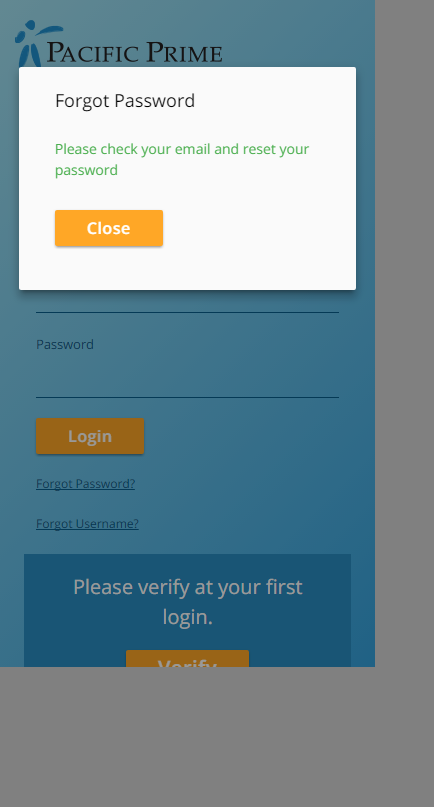
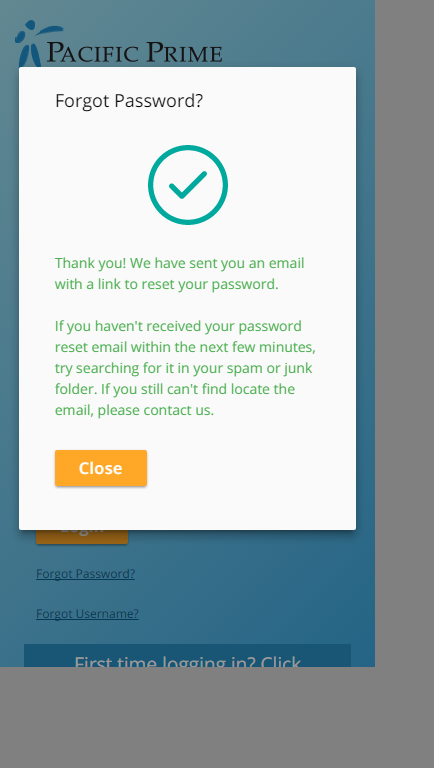
fix selenium Test

diff --git a/browser_test/HomePagePcTest.php b/browser_test/HomePagePcTest.php
@@ -25,67 +25,66 @@ class HomePagePcTest extends \BaseTestCase
         $this->webDriver->findElement(WebDriverBy::id('user_name'))->sendKeys('alex1');
         $this->webDriver->findElement(WebDriverBy::id('password'))->sendKeys('123Psadfs');
 
-        $this->webDriver->findElement(WebDriverBy::xpath('html/body/div[1]/div[1]/div[3]/div/div/div[2]/div/form/div[4]/button'))->click();
+        $this->webDriver->findElement(WebDriverBy::cssSelector("button[data-jshook='loginBtn formBtn']"))->click();
 
         $this->waitJquery();
-        $this->assertContains('Login Fail', $this->webDriver->getPageSource());
+        $this->assertContains('User Not Found', $this->webDriver->getPageSource());
     }
 
     public function testForgotPassword()
     {
         $this->webDriver->get($this->url);
-        $this->webDriver->findElement(WebDriverBy::xpath('html/body/div[1]/div[1]/div[3]/div/div/div[2]/div/div[1]/a'))
+        $this->webDriver->findElement(WebDriverBy::linkText('Forgot Password?'))
                 ->click();
         $this->webDriver->takeScreenshot(__Dir__.'/screen/'.$this->type.'/home-forgotPassword.jpg');
 
-        $box = $this->webDriver->findElement(WebDriverBy::xpath(".//*[@id='forgotpassword_username']"))
-                ->isDisplayed();
+        $box = $this->webDriver->findElement(WebDriverBy::id('forgotPassword'));
 
-        $this->assertTrue($box);
+        $this->assertTrue($box->isDisplayed());
 
-        $field = $this->webDriver->findElement(WebDriverBy::xpath(".//*[@id='forgotpassword_username']"));
-        $btn = $this->webDriver->findElement(WebDriverBy::xpath(".//*[@id='forgotPassword']/div/div/form/div[4]/button"));
+        $field = $this->webDriver->findElement(WebDriverBy::id('forgotpassword_username'));
+        $btn = $this->webDriver->findElement(WebDriverBy::cssSelector("button[data-jshook='forgotpasswordBtn formBtn']"));
 
         $btn->click();
         $this->waitJquery();
-        $msg = $this->webDriver->findElement(WebDriverBy::xpath(".//*[@id='forgotPassword']/div/div/form/div[2]"));
+        $msg = $this->webDriver->findElement(WebDriverBy::cssSelector('div[data-jshook="ForgotPasswordMsg"]'));
 
         $this->assertTrue($msg->isDisplayed());
-        $this->assertContains('Missing field(s)', $msg->getText());
 
         $field->sendKeys('alla');
         $btn->click();
         $this->waitJquery();
-        $this->assertContains('User Not Found', $msg->getText());
+        $this->assertTrue($msg->isDisplayed());
 
         $field->clear()->sendKeys('alex');
         $btn->click();
         $this->waitJquery();
         $this->assertFalse($msg->isDisplayed());
 
-        $successBox = $this->webDriver->findElement(WebDriverBy::xpath(".//*[@id='forgotPassword']/div/div/div[2]"));
+        $successBox = $this->webDriver->findElement(WebDriverBy::cssSelector('div[data-jshook="forgotPasswordSuccess"]'));
         $this->assertTrue($successBox->isDisplayed());
         $this->webDriver->takeScreenshot(__Dir__.'/screen/'.$this->type.'/home-forgotPassword-success.jpg');
 
-        $closeBtn = $this->webDriver->findElement(WebDriverBy::xpath(".//*[@id='forgotPassword']/div/div/div[2]/button"));
+        $closeBtn = $this->webDriver->findElement(WebDriverBy::cssSelector('button[data-jshook="forgotpasswordBtnClose"]'));
         $closeBtn->click();
 
         $this->assertFalse($successBox->isDisplayed());
         $this->assertFalse($closeBtn->isDisplayed());
+        $this->assertFalse($box->isDisplayed());
     }
 
     public function testForgotUserName()
     {
         $this->webDriver->get($this->url);
 
-        $box = $this->webDriver->findElement(WebDriverBy::xpath(".//*[@id='forogtUsername']"));
-        $name = $this->webDriver->findElement(WebDriverBy::xpath(".//*[@id='name']"));
-        $email = $this->webDriver->findElement(WebDriverBy::xpath(".//*[@id='email']"));
-        $phone = $this->webDriver->findElement(WebDriverBy::xpath(".//*[@id='phone']"));
-        $btn = $this->webDriver->findElement(WebDriverBy::xpath(".//*[@id='forogtUsername']/div/div/form/div[6]/button"));
-        $failMsg = $this->webDriver->findElement(WebDriverBy::xpath(".//*[@id='forogtUsername']/div/div/form/div[2]"));
+        $box = $this->webDriver->findElement(WebDriverBy::id('forogtUsername'));
+        $name = $this->webDriver->findElement(WebDriverBy::id('name'));
+        $email = $this->webDriver->findElement(WebDriverBy::id('email'));
+        $phone = $this->webDriver->findElement(WebDriverBy::id('phone'));
+        $btn = $this->webDriver->findElement(WebDriverBy::cssSelector('button[data-jshook="forgotUsernameBtn formBtn"]'));
+        $failMsg = $this->webDriver->findElement(WebDriverBy::cssSelector('div[data-jshook="ForgotUsernameMsg"]'));
 
-        $this->webDriver->findElement(WebDriverBy::xpath('html/body/div[1]/div[1]/div[3]/div/div/div[2]/div/div[2]/a'))
+        $this->webDriver->findElement(WebDriverBy::linkText('Forgot Username?'))
                 ->click();
         $this->webDriver->takeScreenshot(__Dir__.'/screen/'.$this->type.'/home-forgotUsername.jpg');
 
@@ -95,14 +94,13 @@ class HomePagePcTest extends \BaseTestCase
         $btn->click();
         $this->waitJquery();
         $this->assertTrue($failMsg->isDisplayed());
-        $this->assertContains('field validate fail', $failMsg->getText());
+
 
         $name->sendKeys('alex');
         $email->sendKeys('adfsa@dslfkdsfj.com');
         $phone->sendKeys('dsfds');
         $btn->click();
         $this->waitJquery();
-        $this->assertContains('User Not Found', $failMsg->getText());
 
         $name->clear()->sendKeys('alex');
         $email->clear()->sendKeys('alex@kwiksure.com');
@@ -111,11 +109,11 @@ class HomePagePcTest extends \BaseTestCase
         $this->waitJquery();
         $this->assertFalse($failMsg->isDisplayed());
 
-        $success = $this->webDriver->findElement(WebDriverBy::xpath(".//*[@id='forogtUsername']/div/div/div[2]"));
+        $success = $this->webDriver->findElement(WebDriverBy::cssSelector('div[data-jshook="forgotUsernameSuccess"]'));
         $this->webDriver->takeScreenshot(__Dir__.'/screen/'.$this->type.'/home-forgotUsername-success.jpg');
 
         $this->assertTrue($success->isDisplayed());
-        $closeBtn = $this->webDriver->findElement(WebDriverBy::xpath(".//*[@id='forogtUsername']/div/div/div[2]/button"));
+        $closeBtn = $this->webDriver->findElement(WebDriverBy::cssSelector('button[data-jshook="forgotUsernameBtnClose"]'));
         $closeBtn->click();
         $this->assertFalse($box->isDisplayed());
     }

diff --git a/browser_test/HomePageMobileTest.php b/browser_test/HomePageMobileTest.php
@@ -28,64 +28,63 @@ class HomePageMobileTest extends \BaseTestCase
         $this->webDriver->findElement(WebDriverBy::xpath('html/body/div[1]/div[1]/div[3]/div/div/div[2]/div/form/div[4]/button'))->click();
 
         $this->waitJquery();
-        $this->assertContains('Login Fail', $this->webDriver->getPageSource());
+        $this->assertContains('User Not Found', $this->webDriver->getPageSource());
     }
 
     public function testForgotPassword()
     {
         $this->webDriver->get($this->url);
-        $this->webDriver->findElement(WebDriverBy::xpath('html/body/div[1]/div[1]/div[3]/div/div/div[2]/div/div[1]/a'))
+        $this->webDriver->findElement(WebDriverBy::linkText('Forgot Password?'))
                 ->click();
         $this->webDriver->takeScreenshot(__Dir__.'/screen/'.$this->type.'/home-forgotPassword.jpg');
 
-        $box = $this->webDriver->findElement(WebDriverBy::xpath(".//*[@id='forgotpassword_username']"))
-                ->isDisplayed();
+        $box = $this->webDriver->findElement(WebDriverBy::id('forgotPassword'));
 
-        $this->assertTrue($box);
+        $this->assertTrue($box->isDisplayed());
 
-        $field = $this->webDriver->findElement(WebDriverBy::xpath(".//*[@id='forgotpassword_username']"));
-        $btn = $this->webDriver->findElement(WebDriverBy::xpath(".//*[@id='forgotPassword']/div/div/form/div[4]/button"));
+        $field = $this->webDriver->findElement(WebDriverBy::id('forgotpassword_username'));
+        $btn = $this->webDriver->findElement(WebDriverBy::cssSelector("button[data-jshook='forgotpasswordBtn formBtn']"));
 
         $btn->click();
         $this->waitJquery();
-        $msg = $this->webDriver->findElement(WebDriverBy::xpath(".//*[@id='forgotPassword']/div/div/form/div[2]"));
+        $msg = $this->webDriver->findElement(WebDriverBy::cssSelector('div[data-jshook="ForgotPasswordMsg"]'));
 
         $this->assertTrue($msg->isDisplayed());
-        $this->assertContains('Missing field(s)', $msg->getText());
 
         $field->sendKeys('alla');
         $btn->click();
         $this->waitJquery();
-        $this->assertContains('User Not Found', $msg->getText());
+        $this->assertTrue($msg->isDisplayed());
 
         $field->clear()->sendKeys('alex');
         $btn->click();
         $this->waitJquery();
         $this->assertFalse($msg->isDisplayed());
 
-        $successBox = $this->webDriver->findElement(WebDriverBy::xpath(".//*[@id='forgotPassword']/div/div/div[2]"));
+        $successBox = $this->webDriver->findElement(WebDriverBy::cssSelector('div[data-jshook="forgotPasswordSuccess"]'));
         $this->assertTrue($successBox->isDisplayed());
         $this->webDriver->takeScreenshot(__Dir__.'/screen/'.$this->type.'/home-forgotPassword-success.jpg');
 
-        $closeBtn = $this->webDriver->findElement(WebDriverBy::xpath(".//*[@id='forgotPassword']/div/div/div[2]/button"));
+        $closeBtn = $this->webDriver->findElement(WebDriverBy::cssSelector('button[data-jshook="forgotpasswordBtnClose"]'));
         $closeBtn->click();
 
         $this->assertFalse($successBox->isDisplayed());
         $this->assertFalse($closeBtn->isDisplayed());
+        $this->assertFalse($box->isDisplayed());
     }
 
     public function testForgotUserName()
     {
         $this->webDriver->get($this->url);
 
-        $box = $this->webDriver->findElement(WebDriverBy::xpath(".//*[@id='forogtUsername']"));
-        $name = $this->webDriver->findElement(WebDriverBy::xpath(".//*[@id='name']"));
-        $email = $this->webDriver->findElement(WebDriverBy::xpath(".//*[@id='email']"));
-        $phone = $this->webDriver->findElement(WebDriverBy::xpath(".//*[@id='phone']"));
-        $btn = $this->webDriver->findElement(WebDriverBy::xpath(".//*[@id='forogtUsername']/div/div/form/div[6]/button"));
-        $failMsg = $this->webDriver->findElement(WebDriverBy::xpath(".//*[@id='forogtUsername']/div/div/form/div[2]"));
+        $box = $this->webDriver->findElement(WebDriverBy::id('forogtUsername'));
+        $name = $this->webDriver->findElement(WebDriverBy::id('name'));
+        $email = $this->webDriver->findElement(WebDriverBy::id('email'));
+        $phone = $this->webDriver->findElement(WebDriverBy::id('phone'));
+        $btn = $this->webDriver->findElement(WebDriverBy::cssSelector('button[data-jshook="forgotUsernameBtn formBtn"]'));
+        $failMsg = $this->webDriver->findElement(WebDriverBy::cssSelector('div[data-jshook="ForgotUsernameMsg"]'));
 
-        $this->webDriver->findElement(WebDriverBy::xpath('html/body/div[1]/div[1]/div[3]/div/div/div[2]/div/div[2]/a'))
+        $this->webDriver->findElement(WebDriverBy::linkText('Forgot Username?'))
                 ->click();
         $this->webDriver->takeScreenshot(__Dir__.'/screen/'.$this->type.'/home-forgotUsername.jpg');
 
@@ -95,14 +94,12 @@ class HomePageMobileTest extends \BaseTestCase
         $btn->click();
         $this->waitJquery();
         $this->assertTrue($failMsg->isDisplayed());
-        $this->assertContains('field validate fail', $failMsg->getText());
 
         $name->sendKeys('alex');
         $email->sendKeys('adfsa@dslfkdsfj.com');
         $phone->sendKeys('dsfds');
         $btn->click();
         $this->waitJquery();
-        $this->assertContains('User Not Found', $failMsg->getText());
 
         $name->clear()->sendKeys('alex');
         $email->clear()->sendKeys('alex@kwiksure.com');
@@ -111,11 +108,11 @@ class HomePageMobileTest extends \BaseTestCase
         $this->waitJquery();
         $this->assertFalse($failMsg->isDisplayed());
 
-        $success = $this->webDriver->findElement(WebDriverBy::xpath(".//*[@id='forogtUsername']/div/div/div[2]"));
+        $success = $this->webDriver->findElement(WebDriverBy::cssSelector('div[data-jshook="forgotUsernameSuccess"]'));
         $this->webDriver->takeScreenshot(__Dir__.'/screen/'.$this->type.'/home-forgotUsername-success.jpg');
 
         $this->assertTrue($success->isDisplayed());
-        $closeBtn = $this->webDriver->findElement(WebDriverBy::xpath(".//*[@id='forogtUsername']/div/div/div[2]/button"));
+        $closeBtn = $this->webDriver->findElement(WebDriverBy::cssSelector('button[data-jshook="forgotUsernameBtnClose"]'));
         $closeBtn->click();
         $this->assertFalse($box->isDisplayed());
     }

diff --git a/browser_test/MainPageMobileTest.php b/browser_test/MainPageMobileTest.php
@@ -26,23 +26,15 @@ class MainPageMobileTest extends \BaseTestCase
         $slideNav = $this->webDriver->findElement(WebDriverBy::xpath(".//*[@id='slide-out']"));
         $this->assertFalse($slideNav->isDisplayed());
         //nav
-        $this->webDriver->findElement(WebDriverBy::xpath('html/body/div[1]/div[1]/header/div[2]/a/i'))->click();
+        $this->webDriver->findElement(WebDriverBy::cssSelector('.button-collapse.mobile_nav_icon'))->click();
         $this->webDriver->takeScreenshot(__Dir__.'/screen/'.$this->type.'/slide.jpg');
         $this->assertTrue($slideNav->isDisplayed());
 
         $this->webDriver->findElement(WebDriverBy::className('drag-target'))->click();
         $this->assertFalse($slideNav->isDisplayed());
-    }
 
-    public function testLogoutBtn()
-    {
-        $this->login();
-
-        $slideNav = $this->webDriver->findElement(WebDriverBy::xpath(".//*[@id='slide-out']"));
-        //nav
-        $this->webDriver->findElement(WebDriverBy::xpath('html/body/div[1]/div[1]/header/div[2]/a/i'))->click();
-
-        $this->webDriver->findElement(WebDriverBy::xpath(".//*[@id='slide-out']/a[5]"))->click();
+        $this->webDriver->findElement(WebDriverBy::cssSelector('.button-collapse.mobile_nav_icon'))->click();
+        $this->webDriver->findElement(WebDriverBy::linkText('Logout'))->click();
         $this->assertEquals($this->url, $this->webDriver->getCurrentURL());
     }
 }

diff --git a/browser_test/MainPagePcTest.php b/browser_test/MainPagePcTest.php
@@ -24,21 +24,17 @@ class MainPagePcTest extends \BaseTestCase
         $this->assertEquals($this->url.'main', $this->webDriver->getCurrentURL());
         $this->webDriver->takeScreenshot(__Dir__.'/screen/'.$this->type.'/main.jpg');
 
-        $div = $this->webDriver->findElement(WebDriverBy::xpath('html/body/div[1]/div[1]/main/div/div/div[1]/div[2]/div/a'));
+        $div = $this->webDriver->findElement(WebDriverBy::cssSelector('.view.hoverable'));
 
         $this->webDriver->action()->moveToElement($div)->perform();
         sleep(1);
         $this->webDriver->takeScreenshot(__Dir__.'/screen/'.$this->type.'/main-section-over.jpg');
-    }
 
-    public function testLogoutBtn()
-    {
-        $this->login();
-
-        $dropDown = $this->webDriver->findElement(WebDriverBy::xpath(".//*[@id='dropdown1']/li/a"));
+        //logout
+        $dropDown = $this->webDriver->findElement(WebDriverBy::id('dropdown1'));
         $this->assertFalse($dropDown->isDisplayed());
 
-        $div = $this->webDriver->findElement(WebDriverBy::xpath('html/body/div[1]/div[1]/header/div/div/div[5]/a/span'));
+        $div = $this->webDriver->findElement(WebDriverBy::cssSelector('.dropdown-button.nav_active'));
         $div->click();
 
         $this->assertTrue($dropDown->isDisplayed());

diff --git a/CHANGELOG.md b/CHANGELOG.md
@@ -1,5 +1,12 @@
 #### [Current]
- * [335498a](../../commit/335498a) - __(2017-03-27 10:25:45 +0800)__ js components update
+ * [01fda66](../../commit/01fda66) - __(2017-03-27 12:15:11 +0800)__ cs fix
+ * [704a699](../../commit/704a699) - __(2017-03-27 12:14:22 +0800)__ cs fix
+ * [5e65f91](../../commit/5e65f91) - __(2017-03-27 12:12:54 +0800)__ cs fix
+ * [589ccc5](../../commit/589ccc5) - __(2017-03-27 12:02:01 +0800)__ change?
+ * [4d6a27f](../../commit/4d6a27f) - __(2017-03-27 10:26:17 +0800)__ js components update
+
+#### [0.1.7]
+ * [4d6a27f](../../commit/4d6a27f) - __(2017-03-27 10:26:17 +0800)__ js components update
  * [70e9a08](../../commit/70e9a08) - __(2017-03-24 16:57:04 +0800)__ ci fix 2
  * [1fea676](../../commit/1fea676) - __(2017-03-24 16:50:37 +0800)__ ci fix
  * [da53f61](../../commit/da53f61) - __(2017-03-24 16:44:31 +0800)__ js text to php text
